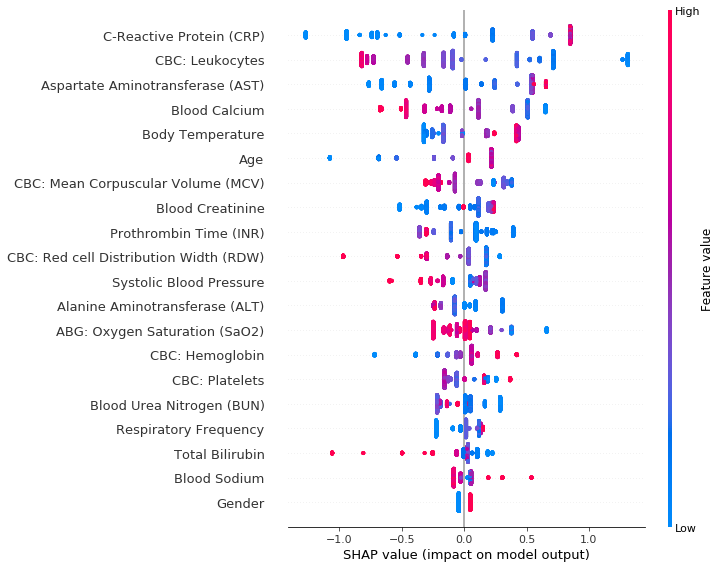
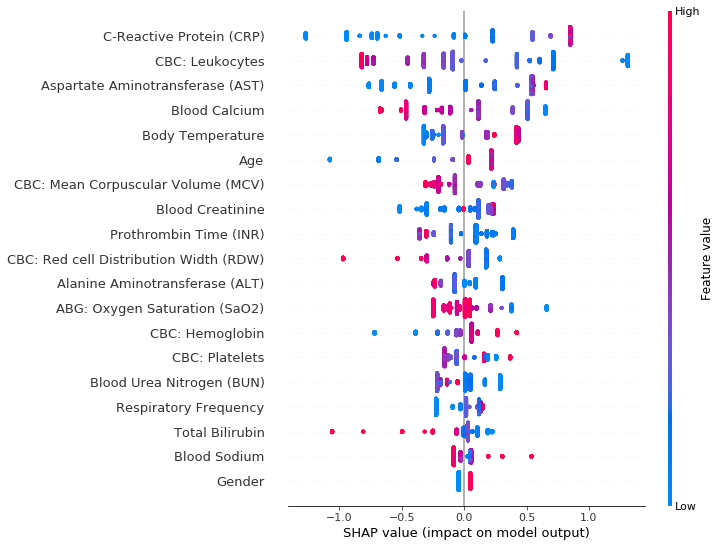
remove BP from summary plots

diff --git a/calculator/feature_importance.py b/calculator/feature_importance.py
@@ -20,7 +20,7 @@ import matplotlib.pyplot as plt
 
 
 model_type = 'mortality'
-model_lab = 'without_lab'
+model_lab = 'with_lab'
 
 assert model_type in('mortality','infection'), "Invalid outcome"
 assert model_lab in('with_lab','without_lab'), "Invalid lab specification"
@@ -42,9 +42,13 @@ imputer= model_file['imputer']
 #%% Load data: to be replaced once we store X_train and X_test. Currently no imputation
 
 data = pd.read_csv(data_path+model_type+"_"+model_lab+"/train.csv")
-X = data.drop(["Unnamed: 0", "Outcome"], axis=1, inplace = False)
-y = data["Outcome"]
-
+if model_type == "mortality":
+    X = data.drop(["Unnamed: 0", "Outcome"], axis=1, inplace = False)
+    y = data["Outcome"]
+else:
+    X = data.drop(["NOSOLOGICO","Swab"], axis=1, inplace = False)
+    y = data["Swab"]
+    
 
 #%% Evaluate Model with SHAP
 ## Calculate SHAP values (for each observation x feature)
@@ -55,8 +59,9 @@ shap_values = explainer.shap_values(X);
 
 #%% Summarize SHAP values across all features
 # This acts as an alterative to the standard variable importance plots. Higher SHAP values translate to higher probability of mortality.
-
-shap.summary_plot(shap_values, X,show=False,max_display=100)
+bp_col = X.columns != "Systolic Blood Pressure"
+shap.summary_plot(shap_values[:,bp_col],  X[X.columns[bp_col]],
+                  show=False,max_display=100)
 f = plt.gcf()
 f.savefig('../results/'+model_type+'/model_'+model_lab+'/summary_plot.png', bbox_inches='tight')
  
